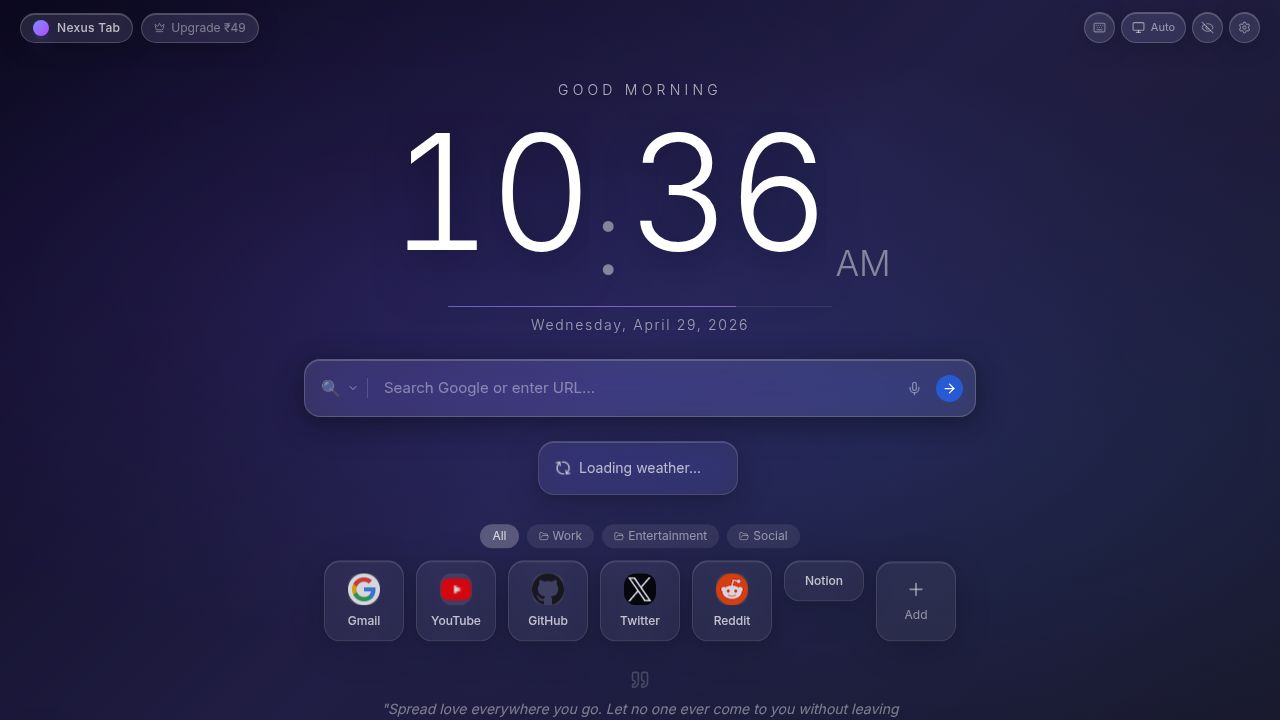
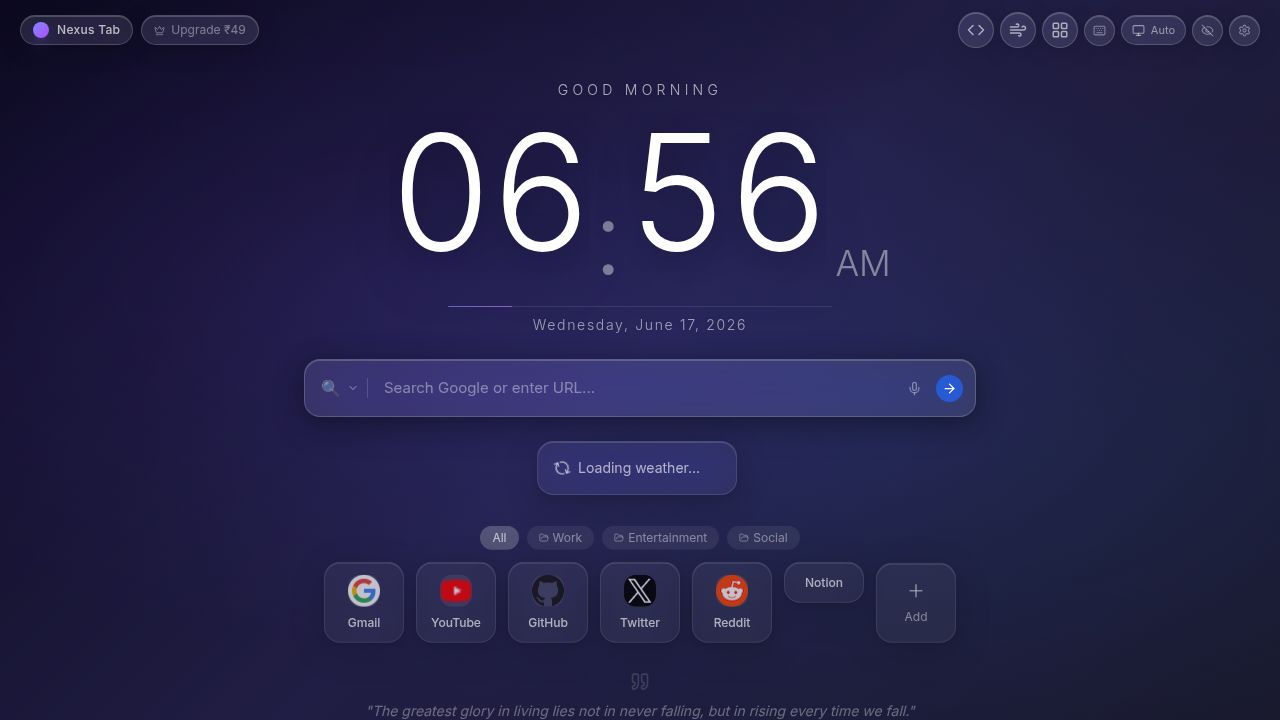
Persist uploaded wallpapers by storing them in IndexedDB
Refactor wallpaper handling to use IndexedDB for storage, replacing localStorage.
Introduces `useWallpaperSrc` hook and `wallpaperDB` utility for async loading.
Updates `SettingsPanel` and `Wallpaper` components to utilize the new storage mechanism.

Replit-Commit-Author: Agent
Replit-Commit-Session-Id: 1600f7d0-d199-49c9-adc4-8f68f2dc758e
Replit-Commit-Checkpoint-Type: full_checkpoint
Replit-Commit-Event-Id: 07d427c1-6369-4b4a-83a5-ce5d2310acda
Replit-Commit-Screenshot-Url: https://storage.googleapis.com/screenshot-production-us-central1/2050dd46-2004-4fca-80db-3390f7a7f174/1600f7d0-d199-49c9-adc4-8f68f2dc758e/sKfCtN2
Replit-Helium-Checkpoint-Created: true

diff --git a/artifacts/newtab-extension/src/components/SettingsPanel.tsx b/artifacts/newtab-extension/src/components/SettingsPanel.tsx
@@ -4,7 +4,7 @@ import {
   X, Settings, Sun, Moon, Monitor, Image, Upload, Sliders, Search,
   Eye, EyeOff, Type, Bell, BellOff, Zap, ZapOff, Download, Upload as UploadIcon, Palette, Trash2
 } from "lucide-react";
-import { useSettings, useCustomWallpapers, AppSettings } from "@/store/useStore";
+import { useSettings, useCustomWallpapers, useWallpaperSrc, AppSettings } from "@/store/useStore";
 
 const FONTS = ["Inter", "Poppins", "Playfair Display", "JetBrains Mono"];
 const SEARCH_ENGINES = [
@@ -82,6 +82,36 @@ function SliderRow({ label, value, min, max, onChange, unit = "" }: SliderRowPro
   );
 }
 
+// Thumbnail that loads its image from IndexedDB asynchronously
+function WallpaperThumb({ id, name, isActive, onSelect, onDelete }: {
+  id: string; name: string; isActive: boolean;
+  onSelect: () => void; onDelete: () => void;
+}) {
+  const src = useWallpaperSrc(`custom:${id}`);
+  return (
+    <div className={`relative h-16 rounded-xl overflow-hidden border-2 transition-all group ${isActive ? "border-primary" : "border-transparent hover:border-white/30"}`}>
+      <button className="absolute inset-0 w-full h-full" onClick={onSelect}>
+        {src
+          ? <img src={src} alt={name} className="w-full h-full object-cover" />
+          : <div className="w-full h-full bg-white/10 animate-pulse" />}
+        <div className="absolute bottom-0 inset-x-0 bg-black/50 text-white text-xs py-0.5 text-center truncate px-1">{name}</div>
+      </button>
+      <button
+        onClick={(e) => { e.stopPropagation(); onDelete(); }}
+        className="absolute top-1 right-1 w-5 h-5 rounded-full bg-black/70 text-white/80 hover:text-red-400 hover:bg-black/90 flex items-center justify-center opacity-0 group-hover:opacity-100 transition-opacity"
+        title="Delete"
+      >
+        <Trash2 size={10} />
+      </button>
+      {isActive && (
+        <div className="absolute top-1 left-1 w-4 h-4 rounded-full bg-primary flex items-center justify-center">
+          <div className="w-1.5 h-1.5 rounded-full bg-white" />
+        </div>
+      )}
+    </div>
+  );
+}
+
 export function SettingsPanel({ open, onClose }: { open: boolean; onClose: () => void }) {
   const { settings, updateSettings } = useSettings();
   const { customWallpapers, addCustomWallpaper, deleteCustomWallpaper } = useCustomWallpapers();
@@ -116,9 +146,14 @@ export function SettingsPanel({ open, onClose }: { open: boolean; onClose: () =>
           const ctx = canvas.getContext("2d")!;
           ctx.drawImage(img, 0, 0, width, height);
           const compressed = canvas.toDataURL("image/jpeg", 0.75);
-          const id = addCustomWallpaper(name, compressed);
-          updateSettings({ wallpaper: `custom:${id}` });
-          setUploadState("idle");
+          // addCustomWallpaper is now async — saves to IndexedDB
+          addCustomWallpaper(name, compressed).then(id => {
+            updateSettings({ wallpaper: `custom:${id}` });
+            setUploadState("idle");
+          }).catch(() => {
+            setUploadState("error");
+            setTimeout(() => setUploadState("idle"), 3000);
+          });
         } catch {
           setUploadState("error");
           setTimeout(() => setUploadState("idle"), 3000);
@@ -380,42 +415,19 @@ export function SettingsPanel({ open, onClose }: { open: boolean; onClose: () =>
                   {customWallpapers.length > 0 && (
                     <Section title="Your Uploads">
                       <div className="grid grid-cols-2 gap-2">
-                        {customWallpapers.map(cw => {
-                          const refId = `custom:${cw.id}`;
-                          const isActive = settings.wallpaper === refId;
-                          return (
-                            <div
-                              key={cw.id}
-                              className={`relative h-16 rounded-xl overflow-hidden border-2 transition-all group ${isActive ? "border-primary" : "border-transparent hover:border-white/30"}`}
-                            >
-                              <button
-                                className="absolute inset-0 w-full h-full"
-                                onClick={() => updateSettings({ wallpaper: refId })}
-                              >
-                                <img src={cw.dataUrl} alt={cw.name} className="w-full h-full object-cover" />
-                                <div className="absolute bottom-0 inset-x-0 bg-black/50 text-white text-xs py-0.5 text-center truncate px-1">
-                                  {cw.name}
-                                </div>
-                              </button>
-                              <button
-                                onClick={(e) => {
-                                  e.stopPropagation();
-                                  if (isActive) updateSettings({ wallpaper: null });
-                                  deleteCustomWallpaper(cw.id);
-                                }}
-                                className="absolute top-1 right-1 w-5 h-5 rounded-full bg-black/70 text-white/80 hover:text-red-400 hover:bg-black/90 flex items-center justify-center opacity-0 group-hover:opacity-100 transition-opacity"
-                                title="Delete"
-                              >
-                                <Trash2 size={10} />
-                              </button>
-                              {isActive && (
-                                <div className="absolute top-1 left-1 w-4 h-4 rounded-full bg-primary flex items-center justify-center">
-                                  <div className="w-1.5 h-1.5 rounded-full bg-white" />
-                                </div>
-                              )}
-                            </div>
-                          );
-                        })}
+                        {customWallpapers.map(cw => (
+                          <WallpaperThumb
+                            key={cw.id}
+                            id={cw.id}
+                            name={cw.name}
+                            isActive={settings.wallpaper === `custom:${cw.id}`}
+                            onSelect={() => updateSettings({ wallpaper: `custom:${cw.id}` })}
+                            onDelete={() => {
+                              if (settings.wallpaper === `custom:${cw.id}`) updateSettings({ wallpaper: null });
+                              deleteCustomWallpaper(cw.id);
+                            }}
+                          />
+                        ))}
                       </div>
                     </Section>
                   )}

diff --git a/artifacts/newtab-extension/src/store/useStore.ts b/artifacts/newtab-extension/src/store/useStore.ts
@@ -115,10 +115,10 @@ function saveToStorage<T>(key: string, value: T): void {
   }
 }
 
+// CustomWallpaper metadata only — image data lives in IndexedDB, not localStorage
 export interface CustomWallpaper {
   id: string;
   name: string;
-  dataUrl: string;
   addedAt: number;
 }
 
@@ -240,42 +240,53 @@ export function useCustomWallpapers() {
     return () => { listeners.delete(cb); };
   }, []);
 
-  const addCustomWallpaper = useCallback((name: string, dataUrl: string): string => {
+  // Returns the new ID on success; throws on failure
+  const addCustomWallpaper = useCallback(async (name: string, dataUrl: string): Promise<string> => {
+    const { saveWallpaperToDB } = await import("@/utils/wallpaperDB");
     const id = `cw_${Date.now()}`;
-    const entry: CustomWallpaper = { id, name, dataUrl, addedAt: Date.now() };
-    const next = [..._customWallpapers, entry];
-    // Try saving; if quota exceeded, evict oldest one at a time until it fits
-    let toSave = next;
-    let saved = false;
-    while (toSave.length > 0) {
-      try {
-        localStorage.setItem("nt_custom_wallpapers", JSON.stringify(toSave));
-        saved = true;
-        break;
-      } catch {
-        toSave = toSave.slice(1); // drop oldest
-      }
-    }
-    if (!saved) throw new Error("localStorage quota exceeded even after eviction");
-    _customWallpapers = toSave;
+    // Save image data to IndexedDB (no size limit issues)
+    await saveWallpaperToDB(id, dataUrl);
+    // Save only tiny metadata to localStorage
+    const meta: CustomWallpaper = { id, name, addedAt: Date.now() };
+    _customWallpapers = [..._customWallpapers, meta];
+    saveToStorage("nt_custom_wallpapers", _customWallpapers);
     notify();
     return id;
   }, []);
 
-  const deleteCustomWallpaper = useCallback((id: string) => {
+  const deleteCustomWallpaper = useCallback(async (id: string) => {
+    const { deleteWallpaperFromDB } = await import("@/utils/wallpaperDB");
+    await deleteWallpaperFromDB(id);
     _customWallpapers = _customWallpapers.filter(w => w.id !== id);
-    localStorage.setItem("nt_custom_wallpapers", JSON.stringify(_customWallpapers));
+    saveToStorage("nt_custom_wallpapers", _customWallpapers);
     notify();
   }, []);
 
-  const resolveWallpaper = useCallback((wallpaper: string | null): string | null => {
-    if (!wallpaper) return null;
-    if (wallpaper.startsWith("custom:")) {
-      const id = wallpaper.slice(7);
-      return _customWallpapers.find(w => w.id === id)?.dataUrl ?? null;
-    }
-    return wallpaper;
-  }, []);
+  return { customWallpapers: _customWallpapers, addCustomWallpaper, deleteCustomWallpaper };
+}
 
-  return { customWallpapers: _customWallpapers, addCustomWallpaper, deleteCustomWallpaper, resolveWallpaper };
+// Hook to resolve a wallpaper reference to an actual src string (async for custom: IDs)
+export function useWallpaperSrc(wallpaper: string | null): string | null {
+  const [src, setSrc] = useState<string | null>(() =>
+    // If it's a preset URL (not a custom: ref), use it immediately
+    wallpaper && !wallpaper.startsWith("custom:") ? wallpaper : null
+  );
+
+  useEffect(() => {
+    if (!wallpaper) { setSrc(null); return; }
+    if (!wallpaper.startsWith("custom:")) { setSrc(wallpaper); return; }
+
+    const id = wallpaper.slice(7);
+    let cancelled = false;
+    import("@/utils/wallpaperDB").then(({ loadWallpaperFromDB }) =>
+      loadWallpaperFromDB(id)
+    ).then(dataUrl => {
+      if (!cancelled) setSrc(dataUrl);
+    }).catch(() => {
+      if (!cancelled) setSrc(null);
+    });
+    return () => { cancelled = true; };
+  }, [wallpaper]);
+
+  return src;
 }

diff --git a/artifacts/newtab-extension/src/utils/wallpaperDB.ts b/artifacts/newtab-extension/src/utils/wallpaperDB.ts
@@ -1,0 +1,46 @@
+const DB_NAME = "nexus-tab-wallpapers";
+const STORE_NAME = "wallpapers";
+const DB_VERSION = 1;
+
+function openDB(): Promise<IDBDatabase> {
+  return new Promise((resolve, reject) => {
+    const req = indexedDB.open(DB_NAME, DB_VERSION);
+    req.onupgradeneeded = () => {
+      if (!req.result.objectStoreNames.contains(STORE_NAME)) {
+        req.result.createObjectStore(STORE_NAME, { keyPath: "id" });
+      }
+    };
+    req.onsuccess = () => resolve(req.result);
+    req.onerror = () => reject(req.error);
+  });
+}
+
+export async function saveWallpaperToDB(id: string, dataUrl: string): Promise<void> {
+  const db = await openDB();
+  return new Promise((resolve, reject) => {
+    const tx = db.transaction(STORE_NAME, "readwrite");
+    tx.objectStore(STORE_NAME).put({ id, dataUrl });
+    tx.oncomplete = () => { db.close(); resolve(); };
+    tx.onerror = () => { db.close(); reject(tx.error); };
+  });
+}
+
+export async function loadWallpaperFromDB(id: string): Promise<string | null> {
+  const db = await openDB();
+  return new Promise((resolve, reject) => {
+    const tx = db.transaction(STORE_NAME, "readonly");
+    const req = tx.objectStore(STORE_NAME).get(id);
+    req.onsuccess = () => { db.close(); resolve(req.result?.dataUrl ?? null); };
+    req.onerror = () => { db.close(); reject(req.error); };
+  });
+}
+
+export async function deleteWallpaperFromDB(id: string): Promise<void> {
+  const db = await openDB();
+  return new Promise((resolve, reject) => {
+    const tx = db.transaction(STORE_NAME, "readwrite");
+    tx.objectStore(STORE_NAME).delete(id);
+    tx.oncomplete = () => { db.close(); resolve(); };
+    tx.onerror = () => { db.close(); reject(tx.error); };
+  });
+}

diff --git a/artifacts/newtab-extension/src/components/Wallpaper.tsx b/artifacts/newtab-extension/src/components/Wallpaper.tsx
@@ -1,16 +1,11 @@
-import { useSettings, useCustomWallpapers } from "@/store/useStore";
+import { useSettings, useWallpaperSrc } from "@/store/useStore";
 
 export function Wallpaper() {
   const { settings } = useSettings();
-  const { resolveWallpaper } = useCustomWallpapers();
+  const resolvedSrc = useWallpaperSrc(settings.wallpaper);
 
   const gradientBg = "linear-gradient(135deg, #0f0c29 0%, #302b63 50%, #24243e 100%)";
-
-  const overlayStyle = {
-    background: `rgba(0,0,0,${settings.wallpaperOverlayOpacity / 100})`,
-  };
-
-  const resolvedSrc = resolveWallpaper(settings.wallpaper);
+  const overlayStyle = { background: `rgba(0,0,0,${settings.wallpaperOverlayOpacity / 100})` };
 
   if (!resolvedSrc) {
     return (
@@ -26,7 +21,8 @@ export function Wallpaper() {
         <div
           className="absolute inset-0 opacity-40"
           style={{
-            background: "radial-gradient(ellipse at 30% 40%, rgba(120,80,255,0.3) 0%, transparent 60%), radial-gradient(ellipse at 70% 60%, rgba(59,130,246,0.3) 0%, transparent 60%)",
+            background:
+              "radial-gradient(ellipse at 30% 40%, rgba(120,80,255,0.3) 0%, transparent 60%), radial-gradient(ellipse at 70% 60%, rgba(59,130,246,0.3) 0%, transparent 60%)",
           }}
         />
       </div>
@@ -43,7 +39,9 @@ export function Wallpaper() {
           filter: [
             settings.wallpaperBlur > 0 ? `blur(${settings.wallpaperBlur}px)` : "",
             settings.wallpaperBrightness !== 100 ? `brightness(${settings.wallpaperBrightness}%)` : "",
-          ].filter(Boolean).join(" ") || undefined,
+          ]
+            .filter(Boolean)
+            .join(" ") || undefined,
         }}
       />
       <div className="absolute inset-0" style={overlayStyle} />